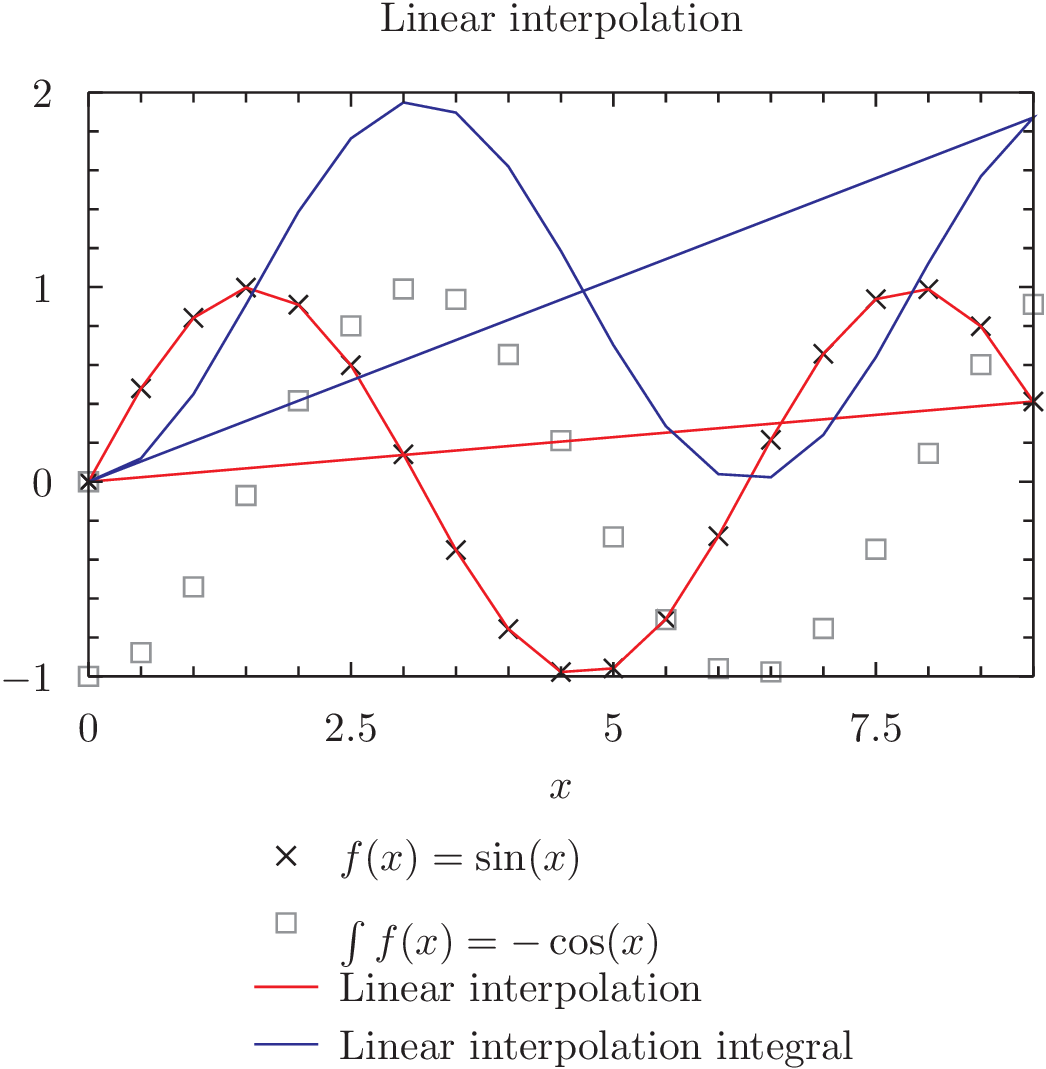
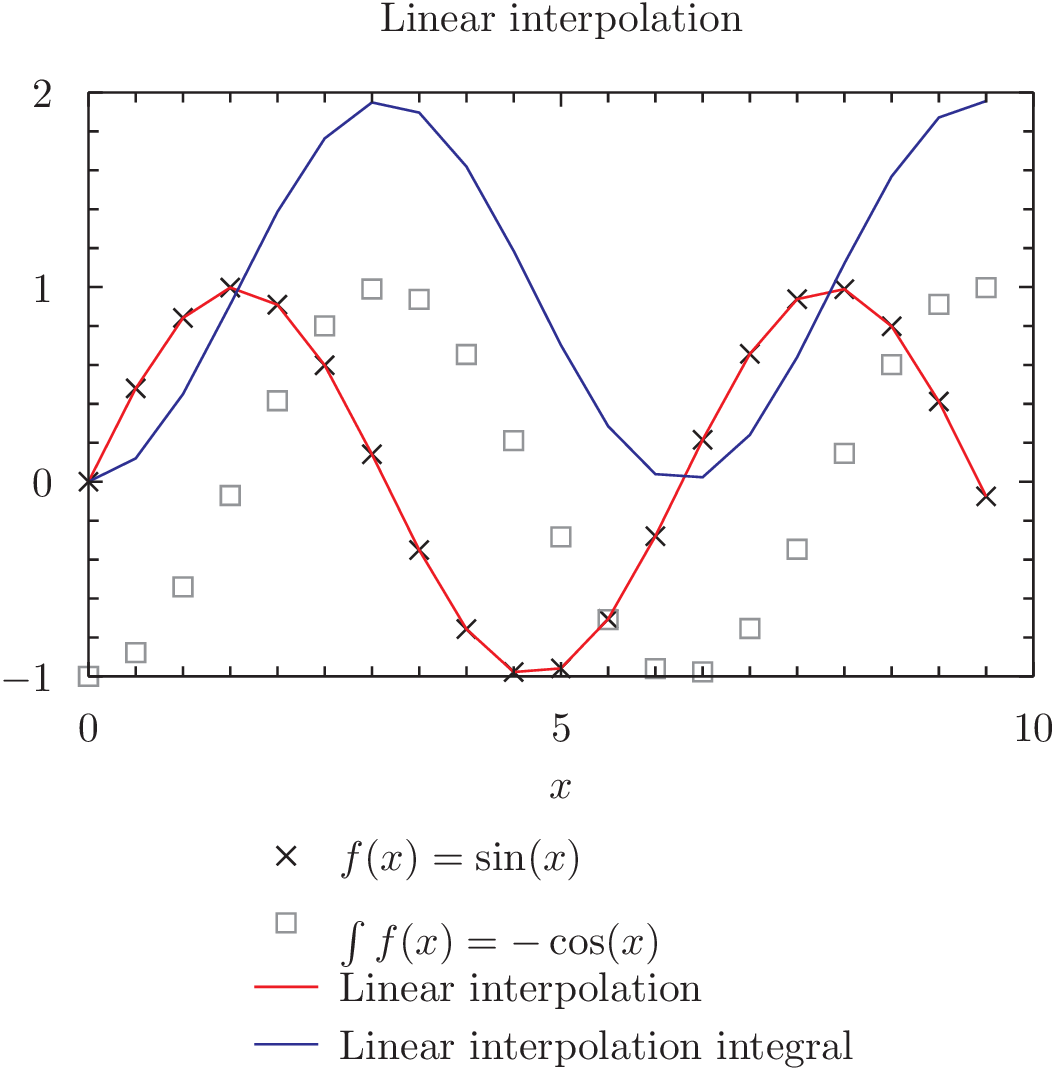
additions to splines homework

diff --git a/homework/splines/B/vector.cs b/homework/splines/B/vector.cs
@@ -1,0 +1,128 @@
+// (C) 2020 Dmitri Fedorov; License: GNU GPL v3+; no warranty.
+using System;
+using System.IO;
+using static System.Math;
+using static System.Console;
+public partial class vector{
+
+private double[] data;
+public int size{ get{return data.Length;} }
+
+public double this[int i]{
+	get{return data[i];}
+	set{data[i]=value;}
+}
+
+public vector(int n){data=new double[n];}
+public vector(double[] a){data=a;}
+public vector(double a)
+	{ data = new double[]{a}; }
+public vector(double a, double b)
+	{ data = new double[]{a,b}; }
+public vector(double a, double b, double c)
+	{ data = new double[]{a,b,c}; }
+public vector(double a, double b, double c, double d)
+	{ data = new double[]{a,b,c,d}; }
+public vector(string s){
+	char[] delims={',',' '};
+	var options = StringSplitOptions.RemoveEmptyEntries;
+        string[] words = s.Split(delims,options);
+        int n = words.Length;
+        data = new double[n];
+        for(int i=0;i<size;i++){
+                        this[i]=double.Parse(words[i]);
+                        }
+	}
+
+
+public static implicit operator vector (double[] a){ return new vector(a); }
+public static implicit operator double[] (vector v){ return v.data; }
+
+public void print(string s="",string format="{0,10:g3} "){
+	this.fprint(Console.Out,s,format);
+	}
+
+public void fprint(TextWriter file,string s="",string format="{0,10:g3} "){
+	file.Write(s);
+	for(int i=0;i<size;i++) file.Write(format,this[i]);
+	file.Write("\n");
+}
+
+public static vector operator+(vector v, vector u){
+	vector r=new vector(v.size);
+	for(int i=0;i<r.size;i++)r[i]=v[i]+u[i];
+	return r; }
+
+public static vector operator-(vector v){
+	vector r=new vector(v.size);
+	for(int i=0;i<r.size;i++)r[i]=-v[i];
+	return r; }
+
+public static vector operator-(vector v, vector u){
+	vector r=new vector(v.size);
+	for(int i=0;i<r.size;i++)r[i]=v[i]-u[i];
+	return r; }
+
+public static vector operator*(vector v, double a){
+	vector r=new vector(v.size);
+	for(int i=0;i<v.size;i++)r[i]=a*v[i];
+	return r; }
+
+public static vector operator*(double a, vector v){
+	return v*a; }
+
+public static vector operator/(vector v, double a){
+	vector r=new vector(v.size);
+	for(int i=0;i<v.size;i++)r[i]=v[i]/a;
+	return r; }
+
+public double dot(vector o){
+	double sum=0;
+	for(int i=0;i<size;i++)sum+=this[i]*o[i];
+	return sum;
+	}
+public static double operator%(vector a,vector b){
+	return a.dot(b);
+	}
+
+public vector map(System.Func<double,double>f){
+	vector v=new vector(size);
+	for(int i=0;i<size;i++)v[i]=f(this[i]);
+	return v;
+	}
+
+public double norm(){
+	double meanabs=0;
+	for(int i=0;i<size;i++)meanabs+=Abs(this[i]);
+	if(meanabs==0)meanabs=1;
+	meanabs/=size;
+	double sum=0;
+	for(int i=0;i<size;i++)sum+=(this[i]/meanabs)*(this[i]/meanabs);
+	return meanabs*Sqrt(sum);
+	}
+
+public vector copy(){
+	vector b=new vector(this.size);
+	for(int i=0;i<this.size;i++)b[i]=this[i];
+	return b;
+}
+
+public static bool approx(double x, double y, double acc=1e-9, double eps=1e-9){
+	if(Abs(x-y)<acc)return true;
+	if(Abs(x-y)/Max(Abs(x),Abs(y))<eps)return true;
+	return false;
+	}
+
+public static bool approx(vector a,vector b,double acc=1e-9,double eps=1e-9){
+	if(a.size!=b.size)return false;
+	for(int i=0;i<a.size;i++)
+		if(!approx(a[i],b[i],acc,eps))return false;
+	return true;
+}
+public bool approx(vector o){
+	for(int i=0;i<size;i++)
+		if(!approx(this[i],o[i]))return false;
+	return true;
+	}
+
+}//vector

diff --git a/homework/splines/B/integrate.cs b/homework/splines/B/integrate.cs
@@ -1,0 +1,62 @@
+// (C) 2020 Dmitri Fedorov; License: GNU GPL v3+; no warranty.
+using System;
+using static System.Math;
+using static System.Double;
+public static partial class integrate{
+
+public static double quad
+(Func<double,double> f, double a, double b, double acc=1e-6, double eps=1e-6)
+{return o8av(f,a,b,acc,eps);}
+
+public static double o8av
+(Func<double,double> f, double a, double b, double acc=1e-6, double eps=1e-6){
+/// Variable substitutions to treat infinite limits
+/// and singularities at end-points.
+if(a>b) return -o8av(f,b,a,acc,eps);
+if(IsNegativeInfinity(a) && !IsInfinity(b))
+	return o8av(t=>f(b-(1-t)/t)/t/t,0,1,acc,eps);
+if(!IsInfinity(a) && IsPositiveInfinity(b))
+	return o8av(t=>f(a+(1-t)/t)/t/t,0,1,acc,eps);
+if(IsNegativeInfinity(a) && IsPositiveInfinity(b))
+	return o8av(f,a,0,acc,eps)+o8av(f,0,b,acc,eps);
+return o8a(t=>f(a+(b-a)*(3*t*t-2*t*t*t))*(b-a)*6*(t-t*t) ,0,1,acc,eps);
+//return o8a(t=>f((a+b)/2+(b-a)/2*Cos(t))*Sin(t)*(b-a)/2,0,PI,acc,eps);
+}//o8av
+
+public static double o8a
+(Func<double,double> f,double a,double b,
+double acc=1e-6,double eps=1e-6,
+double f2=NaN,double f3=NaN, double f6=NaN,double f7=NaN,
+int nrec=0,int limit=99)
+{
+/// Open 8-point Aadaptive integrator with reuse of points.
+double h=b-a,sqr2=Sqrt(2);
+double f1=f(a+1*h/12),f4=f(a+5*h/12),f5=f(a+7*h/12),f8=f(a+11*h/12);
+if(IsNaN(f2))
+      {f2=f(a+2*h/12);f3=f(a+4*h/12);f6=f(a+8*h/12);f7=f(a+10*h/12);nrec=0;}
+const double
+w1=4738.0/19845,w2=-59.0/567,w3=5869.0/13230,w4=-74.0/945, 
+u1=208.0/945,u2=-7.0/135,u3=209.0/630,u4=0,
+w5=w4,w6=w3,w7=w2,w8=w1,
+u5=u4,u6=u3,u7=u2,u8=u1;
+double integral= (w1*f1+w2*f2+w3*f3+w4*f4+w5*f5+w6*f6+w7*f7+w8*f8)*h;
+double approx  = (u1*f1+u2*f2+u3*f3+u4*f4+u5*f5+u6*f6+u7*f7+u8*f8)*h;
+double error=Abs(integral-approx)/1.5;
+double tolerance=acc+eps*Abs(integral);
+if(error<tolerance) return integral;
+else if(++nrec>limit){
+	Console.Error.Write($"o8a: nrec>{limit} a={a} b={b}\n");
+	return integral;
+	}
+else return o8a(f,a,(a+b)/2,acc/sqr2,eps,f1,f2,f3,f4,nrec,limit)+
+		o8a(f,(a+b)/2,b,acc/sqr2,eps,f5,f6,f7,f8,nrec,limit);
+}//o8a
+
+public static double o8acc
+(Func<double,double> f, double a, double b, double acc=1e-3, double eps=1e-3)
+{/// Clenshaw-Curtis variable substitution
+        Func<double,double> F = t => f((a+b)/2+(b-a)/2*Cos(t))*Sin(t)*(b-a)/2;
+        return o8a(F,0,PI,acc,eps);
+}//o8acc
+
+}//quad

diff --git a/homework/splines/B/qspline.cs b/homework/splines/B/qspline.cs
@@ -1,0 +1,17 @@
+
+
+class qspline {
+	double[] x,y,b,c;
+	public qspline(double[] xs,double[] ys){
+		/* store xs and ys; calculate b and c */
+		this.xs = x;
+		this.ys = y;		
+	}
+
+	private double p(int i, double[] x, double[] y) {
+		
+	}
+	public double spline(double z){/* evaluate the spline */}
+	public double derivative(double z){/* evaluate the derivative */}
+	public double integral(double z){/* evaluate the integral */}
+}

diff --git a/homework/splines/B/main.cs b/homework/splines/B/main.cs
@@ -12,7 +12,7 @@ class main{
 		double[] intlist = new double[N*steps]; //list to check integral
 		int a = 0;
 		
-		for(double i = 0.0; i <= N- stepLength; i += stepLength) {
+		for(double i = 0.0; i< N- stepLength; i += stepLength) {
 			xlist[a] = i;
 			ylist[a] = Sin(i);
 			intlist[a] = -Cos(i);
